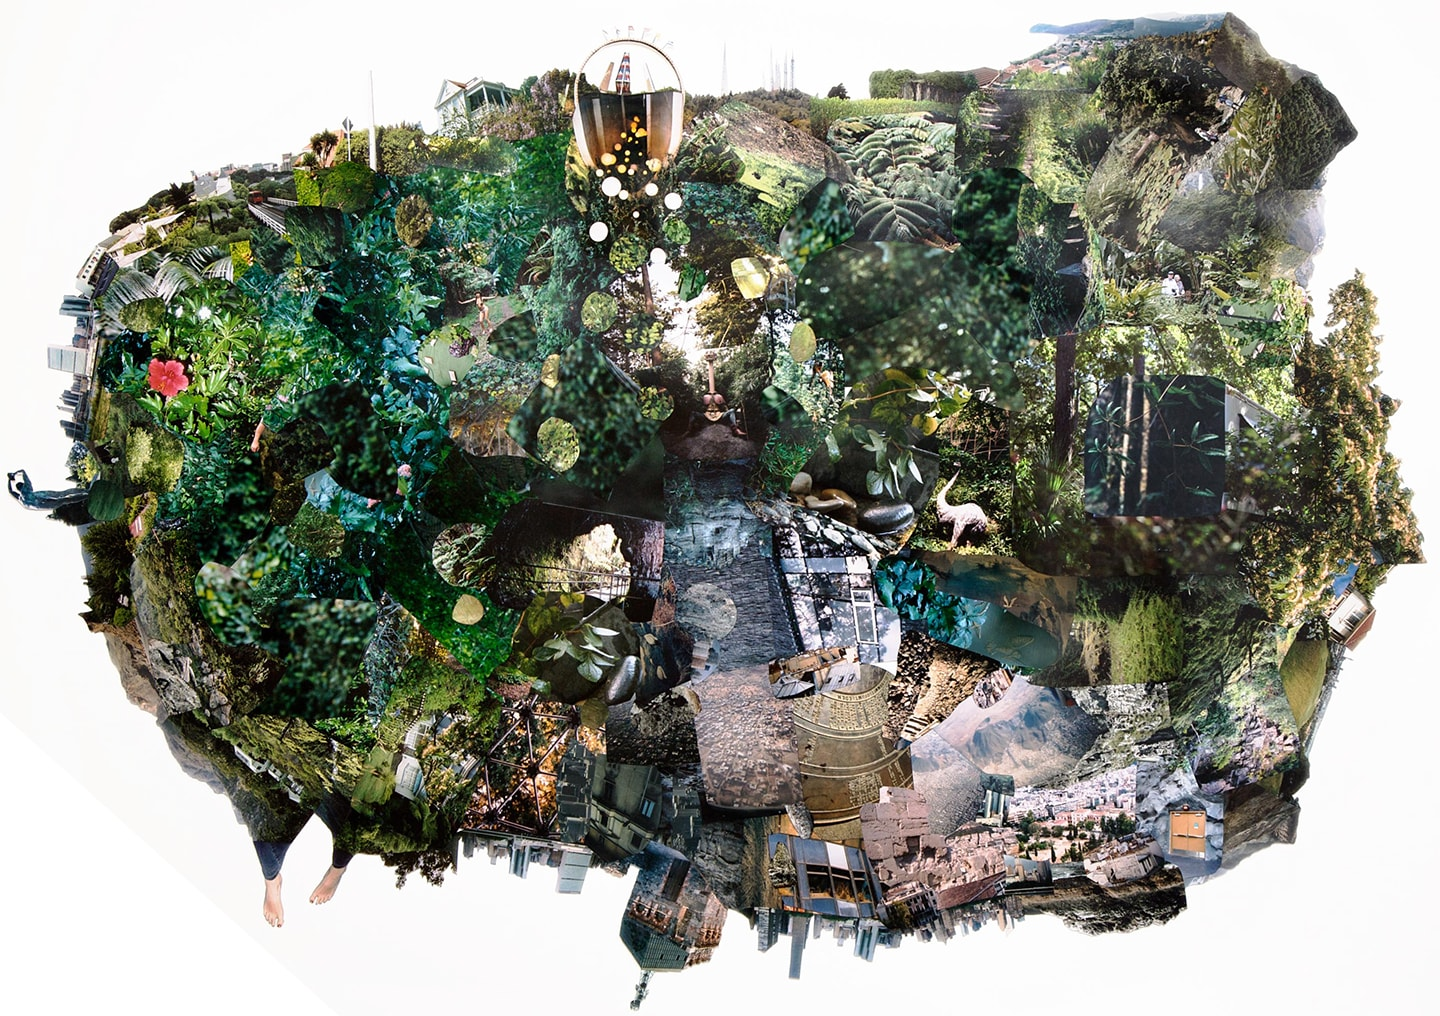
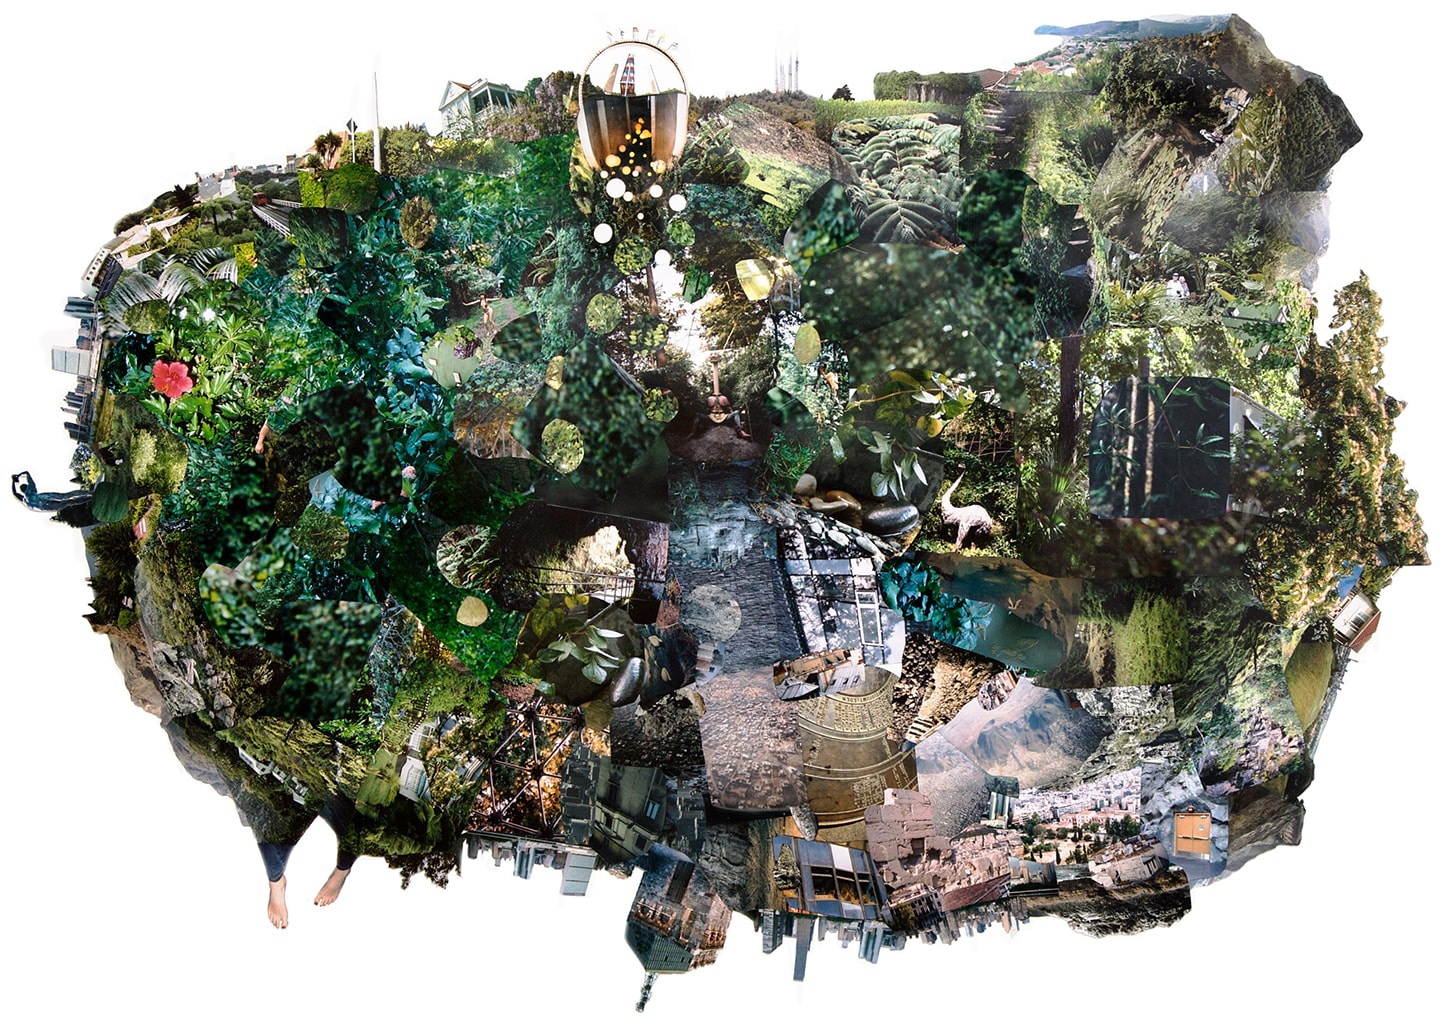
adjusted image

diff --git a/css/styles.css b/css/styles.css
@@ -106,7 +106,7 @@ button:focus {
 	opacity: 0;
     height: 175px;
     width: 175px;
-	background: hsla(355, 61%, 50%, 0.7);
+	background: hsla(355, 61%, 50%, 0.9);
 
 }
 
@@ -115,7 +115,7 @@ button:focus {
 	height: 125px;
     width: 125px;
 	font-family: 'Abril Fatface', cursive;
-	background: hsla(23, 66%, 50%, 0.7);
+	background: hsla(23, 66%, 50%, 0.9);
 
 }
 
@@ -123,7 +123,7 @@ button:focus {
 	opacity: 0;
 	height: 300px;
 	width: 300px;
-	background: hsla(57, 71%, 50%, 0.7);
+	background: hsla(57, 71%, 50%, 0.9);
 
 }
 
@@ -152,17 +152,17 @@ button:focus {
 }
 
 @media screen and (min-width: 600px) {
-	body {
+	/*body {
 		padding: 0 0 0 0 ;
 
-	}
+	}*/
 	.background {
 		height: auto;
 		min-width: 100%;
 		z-index: 0;
 		background-image: url("../img/AECKERT100303-terratoma_0201.jpg");
-		-webkit-background-size: 75%;
-		background-size: 75%;
+		-webkit-background-size: 70%;
+		background-size: 70%;
 		background-position: center;
 		background-repeat: no-repeat;
 	}
@@ -179,7 +179,7 @@ button:focus {
  		/*background-color: hsla(281, 22%, 89%, 0.5);
  		border: 1px solid hsla(281, 22%, 89%, 0.5);*/
 	}
-	.circel-con {
+	.circelCon {
 		height: 175px;
     	width: 175px;
 	}

diff --git a/js/app.js b/js/app.js
@@ -30,7 +30,7 @@
 				maximumAge: 0
 			};
 			
-			$getLocation.html("...hang on, let me check.");	
+			$getLocation.html("...hang on while I check.");	
 
 	    	function success(position){
 	    		const myCoordinates = position.coords;
